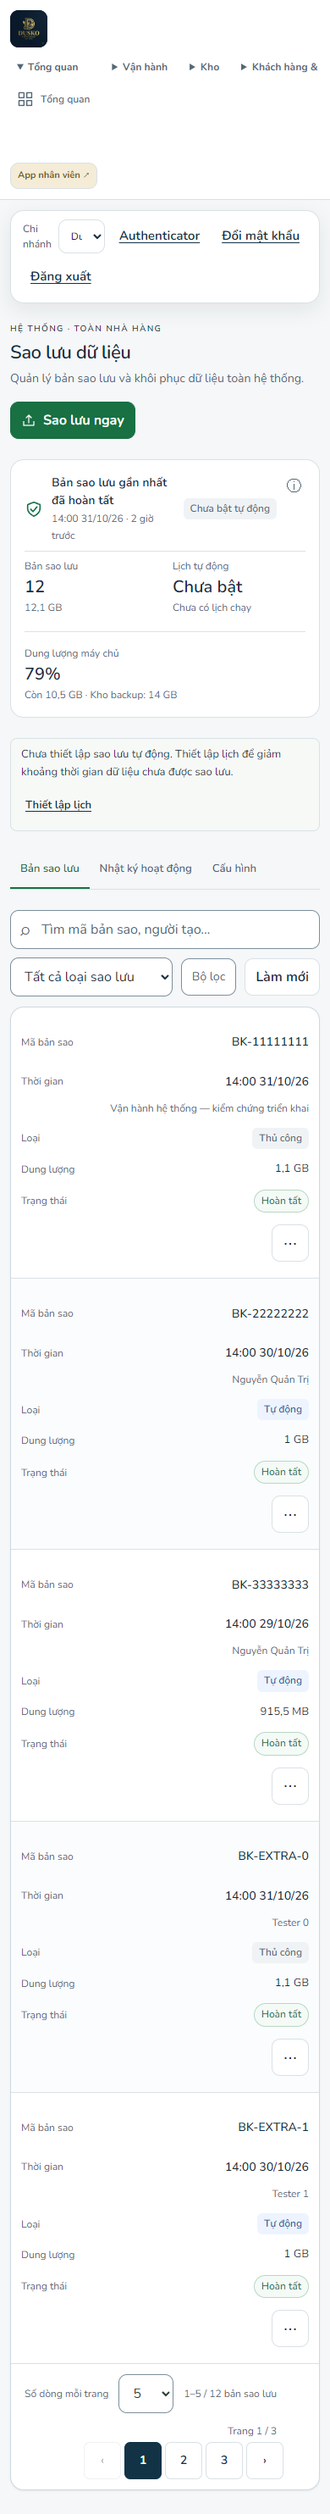
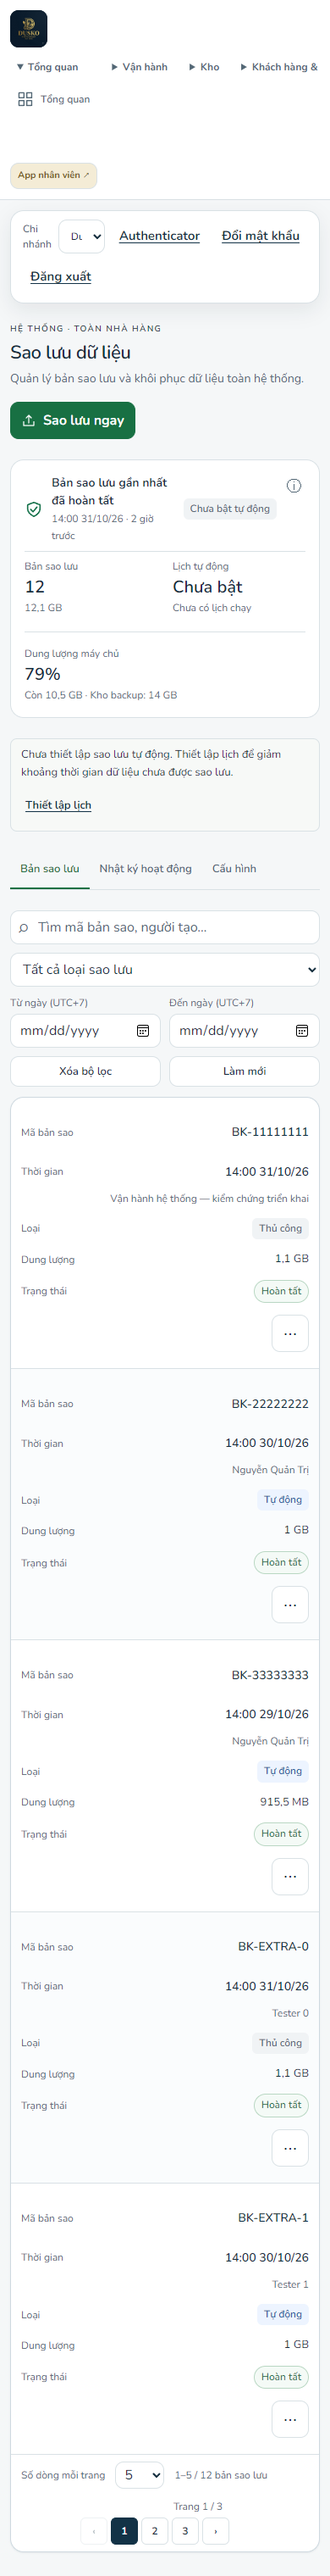
fix: simplify backup filters focus and pagination controls

diff --git a/src/backup-status.css b/src/backup-status.css
@@ -4,7 +4,7 @@
 .backup-console .bk-heading{margin:0;display:flex;justify-content:space-between;align-items:center;gap:16px;flex-direction:row}
 .backup-console .bk-heading h1{font-size:24px;font-weight:600;line-height:1.25;margin:6px 0}.backup-console .bk-heading p{font-size:14px;line-height:1.6;margin:0;color:var(--muted)}
 .backup-console .btn{min-height:var(--tap-min,44px);font-size:16px;line-height:1.4;font-weight:650;padding:8px 12px;border-radius:var(--radius-control,10px)}.backup-console .btn.bk-primary{display:inline-flex;align-items:center;justify-content:center;gap:8px;background:#187043;border-color:#187043;color:#fff;flex:none;padding:8px 12px;box-shadow:none}.backup-console .btn.bk-primary:hover{background:#125b36}.bk-primary svg{width:18px;height:18px}
-.backup-console button:disabled{opacity:.46;cursor:not-allowed;box-shadow:none}.backup-console button:focus-visible,.backup-console summary:focus-visible,.backup-console input:focus-visible,.backup-console select:focus-visible{outline:2px solid #187043;outline-offset:3px}
+.backup-console button:disabled{opacity:.46;cursor:not-allowed;box-shadow:none}.backup-console button:focus-visible,.backup-console summary:focus-visible{outline:2px solid var(--focus-ring);outline-offset:2px}.backup-console input:focus,.backup-console select:focus{outline:2px solid var(--focus-ring);outline-offset:2px;border-color:var(--line);box-shadow:none}
 .bk-card,.bk-overview{background:var(--panel,#fff);border:1px solid var(--bk-line);border-radius:var(--radius-card,16px);padding:16px;min-width:0}.bk-card{padding:var(--space-5,24px)}
 .bk-status-line{display:flex;gap:10px;align-items:center;padding-bottom:8px;border-bottom:1px solid var(--bk-line)}.bk-status-line>div{flex:1;min-width:0}.bk-status-line strong{font-size:14px;font-weight:650;line-height:1.5}.bk-status-line p{margin:2px 0 0;font-size:12px;line-height:1.6;color:var(--muted)}.bk-status-icon{display:grid;place-items:center;color:var(--bk-green);flex:none}.bk-status-icon.is-error{color:var(--bk-red)}
 .bk-summary-grid{display:grid;grid-template-columns:repeat(3,minmax(0,1fr));padding:8px 0 0;gap:24px}.bk-summary-grid>div{min-width:0;padding:0;border:0}.bk-summary-grid>div:last-child{border:0;padding-right:0}.bk-summary-grid>div>span{display:block;font-size:12px;color:var(--muted);margin-bottom:4px}.bk-summary-grid strong{display:block;font-size:20px;line-height:1.2;font-weight:600;margin-bottom:3px}.bk-summary-grid small{display:block;font-size:12px;color:var(--muted);line-height:1.6}.bk-storage .bk-meter{margin:10px 0;max-width:240px;height:6px}.bk-storage--warning strong{color:#ad530b}.bk-storage--danger strong{color:var(--bk-red)}
@@ -16,21 +16,21 @@
 .bk-tabs{display:flex;gap:6px;border-bottom:1px solid var(--bk-line)}.bk-tabs button{font:inherit;font-size:14px;font-weight:600;border:0;border-bottom:2px solid transparent;background:transparent;color:var(--muted);padding:8px 12px;min-height:44px;cursor:pointer}.bk-tabs button[aria-current]{border-bottom-color:#187043;color:#187043}
 .bk-section-head{display:flex;justify-content:space-between;align-items:center;gap:12px;margin-bottom:16px}.bk-section-head h2,.bk-section-head h3{font-size:18px;font-weight:600;margin:0;line-height:1.5}.bk-section-head p{font-size:12px;color:var(--muted);margin:4px 0 0;line-height:1.6}
 .bk-sr-only{position:absolute;width:1px;height:1px;padding:0;margin:-1px;overflow:hidden;clip:rect(0,0,0,0);white-space:nowrap;border:0}
-.bk-archives{min-width:0}.bk-list-toolbar{position:relative;display:flex;align-items:center;gap:10px;flex-wrap:wrap;margin-bottom:12px;min-height:44px}.bk-list-search{position:relative;display:block;width:320px;max-width:100%;min-width:0}.bk-list-search>span[aria-hidden]{position:absolute;left:12px;top:9px;font-size:20px;color:var(--muted);pointer-events:none}.bk-list-search input,.bk-list-type select{width:100%;min-width:0;min-height:44px;height:44px;border:1px solid var(--line-strong);border-radius:var(--radius-control,10px);padding:10px 12px;background:var(--surface);color:var(--ink);font:inherit;font-size:14px;line-height:1.5}.bk-list-search input{padding-left:36px}.bk-list-type{width:180px;max-width:100%}.bk-list-toolbar>.bk-refresh{margin-left:auto}.bk-filter-panel{margin:0}.bk-filter-panel>summary{position:static;font-size:14px;cursor:pointer;min-height:44px;padding:10px 12px;border:1px solid var(--line-strong);border-radius:var(--radius-control,10px);background:#fff;list-style:none;align-content:center;color:var(--muted)}.bk-filter-panel>summary::-webkit-details-marker{display:none}.bk-filter-panel .bk-filters{position:absolute;left:0;top:calc(100% + 8px);z-index:16;width:min(560px,100%);box-shadow:0 6px 20px #19382b1a}.bk-filters{display:grid;grid-template-columns:1fr 1fr auto;gap:12px;align-items:end;padding:16px;background:var(--surface);border:1px solid var(--bk-line);border-radius:var(--radius-control,10px)}
-.bk-filters label{display:grid;gap:6px;font-size:12px;color:var(--muted);min-width:0}.bk-filters input,.bk-filters select,.bk-pagination select{height:44px;min-height:44px;border:1px solid var(--line-strong);border-radius:var(--radius-control,10px);padding:10px 12px;background:#fff;color:#263e30;min-width:0;width:100%;font-size:14px;line-height:1.5}.bk-filters .btn{justify-self:start}
+.bk-archives{min-width:0}.bk-list-toolbar{display:flex;align-items:end;gap:10px;flex-wrap:wrap;margin-bottom:12px}.bk-list-search{position:relative;display:block;flex:1;min-width:220px;max-width:100%}.bk-list-search>span[aria-hidden]{position:absolute;left:10px;bottom:5px;font-size:20px;color:var(--muted);pointer-events:none}.bk-list-type{width:170px;max-width:100%}.bk-date-filters{display:contents}.bk-filters{display:flex;align-items:end;gap:10px}.bk-filters label{display:grid;gap:4px;font-size:12px;color:var(--muted);min-width:0;width:155px}.backup-console .bk-list-search input,.backup-console .bk-list-type select,.backup-console .bk-filters input,.backup-console .bk-pagination select{width:100%;min-width:0;min-height:36px;height:36px;border:1px solid var(--line);border-radius:var(--radius-control,10px);padding:6px 10px;background:var(--surface);color:var(--ink);font:inherit;font-size:14px;line-height:1.4;box-shadow:none}.backup-console .bk-list-search input{padding-left:32px}.backup-console .bk-list-toolbar .btn{min-height:36px;height:36px;padding:6px 10px;font-size:13px;font-weight:600;border:1px solid var(--line);background:var(--surface);color:var(--ink);box-shadow:none}.bk-list-toolbar .btn:hover:not(:disabled){background:var(--surface-sunken)}
+
 .bk-table-frame{background:var(--surface);border:1px solid #ced9e0;border-radius:var(--radius-card,16px);box-shadow:0 1px 2px #142d3d12;min-width:0}.bk-archives .table-scroll{overflow:visible;border:0;border-radius:inherit}.backup-console .bk-archives table{width:100%;min-width:0;border-collapse:separate;border-spacing:0;table-layout:fixed}.backup-console .bk-archives th{padding:12px;text-transform:none;letter-spacing:0;font-size:12px;font-weight:600;background:#f7f9fb;color:var(--muted);white-space:normal;border-bottom:1px solid var(--bk-line)}.backup-console .bk-archives td{padding:8px 12px;font-size:14px;line-height:1.5;vertical-align:middle;border-bottom:1px solid var(--bk-line);white-space:normal}.bk-archives th:first-child{width:18%;border-top-left-radius:var(--radius-card,16px)}.bk-archives th:nth-child(2){width:30%}.bk-archives th:nth-child(3){width:14%}.bk-archives th:nth-child(4){width:12%}.bk-archives th:nth-child(5){width:14%}.bk-archives th:last-child{width:12%;border-top-right-radius:var(--radius-card,16px)}.bk-archives tbody tr:nth-child(even){background:#fafcfd}.bk-archives tbody tr:hover{background:#f2f7f8}.bk-archives tbody tr:last-child td{border-bottom:0}.bk-archives td strong{font-size:14px;font-weight:600}.bk-archive-actor{display:block;font-size:12px;color:var(--muted);margin-top:3px;line-height:1.5;white-space:nowrap;overflow:hidden;text-overflow:ellipsis}.bk-record-link{display:inline-flex;align-items:center;min-height:44px;padding:0;border:0;background:transparent;font:inherit;font-size:14px;font-weight:600;color:var(--primary-ink);cursor:pointer;text-align:left;max-width:100%;overflow-wrap:anywhere}.bk-record-link:hover{text-decoration:underline}.bk-archives td[data-label="Trạng thái"] .bk-badge{border:1px solid #b9d7c3;border-radius:999px;background:#f4faf6;font-weight:500}
 .bk-badge{display:inline-flex;align-items:center;white-space:nowrap;padding:4px 8px;border-radius:6px;background:#f0f3f5;color:#596a76;font-size:12px;font-weight:550;line-height:1.45}.bk-badge--success{background:#eaf6ef;color:var(--bk-green)}.bk-badge--danger{background:#fff0ee;color:var(--bk-red)}.bk-badge--info{background:#edf4ff;color:var(--bk-blue)}
 .bk-row-menu{position:relative;display:inline-block;max-width:100%;text-align:left}.bk-row-menu>summary{display:flex;align-items:center;justify-content:center;border:1px solid var(--bk-line);border-radius:var(--radius-control,10px);width:44px;height:44px;min-height:44px;padding:0;font-size:13px;cursor:pointer;list-style:none;background:#fff}.bk-row-menu>summary::-webkit-details-marker{display:none}.bk-row-menu>summary span{font-size:19px}.bk-menu-items{position:absolute;z-index:15;right:calc(100% + 8px);top:0;width:250px;max-width:calc(100vw - 64px);padding:8px;background:#fff;border:1px solid var(--bk-line);border-radius:10px;box-shadow:0 8px 26px #19382b24}.bk-menu-items button{width:100%;display:flex;align-items:center;gap:8px;min-height:44px;font:inherit;font-size:16px;line-height:1.4;border:0;border-radius:6px;background:#fff;text-align:left;cursor:pointer;padding:10px}.bk-menu-items button:hover:not(:disabled){background:#f4f7f4}.bk-menu-danger{border-top:1px solid var(--bk-line);padding-top:8px;margin-top:8px}.bk-menu-danger small{display:block;color:var(--muted);font-size:11px;padding:4px 10px}.bk-menu-danger button{color:var(--bk-red)}.bk-action svg{width:16px;height:16px}.bk-archive-detail>.bk-action{display:inline-flex;align-items:center;gap:8px;border:1px solid #e7b5b0;border-radius:7px;min-height:44px;background:#fff;color:var(--bk-red);padding:10px 14px;cursor:pointer}
-.bk-pagination{display:flex;align-items:center;justify-content:space-between;gap:12px;flex-wrap:wrap;border-top:1px solid var(--bk-line);padding:12px 16px;margin:0;color:var(--muted);font-size:12px}.bk-pagination-meta,.bk-pagination label,.bk-pagination nav{display:flex;align-items:center;gap:12px}.bk-pagination-meta{flex-wrap:wrap}.bk-pagination select{width:65px}.bk-pagination nav{gap:4px;flex-wrap:wrap}.backup-console .bk-pagination nav button{width:44px;min-width:44px;padding:8px 0;border:1px solid transparent;border-radius:7px;background:transparent;color:var(--muted);font-size:14px}.backup-console .bk-pagination nav .bk-page-number{border-color:var(--bk-line);background:#fff;color:var(--ink)}.backup-console .bk-pagination nav .bk-page-number[aria-current]{background:var(--primary);border-color:var(--primary);color:var(--on-primary)}.bk-page-label{margin-right:8px}.bk-page-gap{padding:0 4px}.bk-footnote{font-size:12px;color:#946a10;line-height:1.7;margin:10px 0}.bk-empty{text-align:center;padding:30px 12px;color:var(--muted)}.bk-empty h3{font-size:17px;margin:0 0 8px}.bk-empty p{font-size:13px;margin:0}
+.bk-pagination{display:flex;align-items:center;justify-content:space-between;gap:12px;flex-wrap:wrap;border-top:1px solid var(--bk-line);padding:8px 12px;margin:0;color:var(--muted);font-size:12px}.bk-pagination-meta,.bk-pagination label,.bk-pagination nav{display:flex;align-items:center;gap:12px}.bk-pagination-meta{flex-wrap:wrap}.backup-console .bk-pagination select{width:58px;min-height:28px;height:28px;padding:3px 6px;font-size:12px}.bk-pagination nav{gap:4px;flex-wrap:wrap}.backup-console .bk-pagination nav button{width:28px;min-width:28px;min-height:28px;height:28px;padding:0;border:1px solid transparent;border-radius:6px;background:transparent;color:var(--muted);font-size:12px;line-height:1}.backup-console .bk-pagination nav .bk-page-number{border-color:var(--bk-line);background:#fff;color:var(--ink)}.backup-console .bk-pagination nav .bk-page-number[aria-current]{background:var(--primary);border-color:var(--primary);color:var(--on-primary)}.bk-page-label{margin-right:8px}.bk-page-gap{padding:0 4px}.bk-footnote{font-size:12px;color:#946a10;line-height:1.7;margin:10px 0}.bk-empty{text-align:center;padding:30px 12px;color:var(--muted)}.bk-empty h3{font-size:17px;margin:0 0 8px}.bk-empty p{font-size:13px;margin:0}
 .bk-archive-detail{margin-top:20px;padding-top:20px;border-top:1px solid var(--bk-line);font-size:13px;line-height:1.7}.bk-archive-detail dl{display:grid;grid-template-columns:150px minmax(0,1fr);gap:10px 16px;margin:0}.bk-archive-detail dt{color:var(--muted)}.bk-archive-detail dd{margin:0;overflow-wrap:anywhere}.bk-archive-detail p{max-width:850px}
 .bk-settings>section{display:flex;justify-content:space-between;align-items:start;gap:24px;border-top:1px solid var(--bk-line);padding:20px 0}.bk-settings>section:last-child{padding-bottom:0}.bk-settings h3{font-size:18px;margin:0 0 8px}.bk-settings p{font-size:14px;color:var(--muted);line-height:1.8;margin:6px 0;max-width:850px}.bk-settings .btn{flex:none}.bk-settings summary{cursor:pointer;font-size:13px;margin-top:12px}
 .bk-activity ol{list-style:none;margin:0;padding:0}.bk-activity li{display:flex;justify-content:space-between;align-items:start;gap:20px;padding:16px 0;border-bottom:1px solid var(--bk-line)}.bk-activity li:last-child{border:0;padding-bottom:0}.bk-activity li>div{min-width:0}.bk-activity strong{font-size:14px}.bk-activity p{font-size:12px;color:var(--muted);margin:5px 0 0;line-height:1.7;overflow-wrap:anywhere}.bk-muted,.bk-capability{font-size:13px;color:var(--muted);line-height:1.7;margin:0}.bk-error{color:var(--bk-red)!important}
 .bk-running{border:1px solid #c7d8e9;border-left:3px solid #235a9b;border-radius:10px;padding:16px;background:#f8fbff}.bk-running-head{display:flex;justify-content:space-between;align-items:center;gap:12px;margin-bottom:12px}.bk-running-head>div{display:flex;align-items:center;gap:10px;flex-wrap:wrap}.bk-running-head strong{font-size:14px}.bk-running-head>b{font-size:24px;color:#235a9b}.bk-running small{display:block;font-size:12px;color:var(--muted);margin-top:10px;line-height:1.6}.bk-running p{font-size:13px;line-height:1.7}.bk-restore-result{padding:20px}.bk-restore-result h2{font-size:20px}
-@container(max-width:899px){.bk-filters{grid-template-columns:repeat(2,minmax(0,1fr))}.bk-filters label:first-child{grid-column:1/-1}.bk-summary-grid{gap:16px}.bk-summary-grid>div{padding-right:0}.bk-status-line{flex-wrap:wrap}.bk-status-line>.bk-badge{margin-left:0}}
-@container(max-width:619px){.bk-card,.bk-overview{padding:16px}.backup-console .bk-heading{align-items:start;flex-wrap:wrap}.backup-console .bk-heading h1{font-size:22px}.bk-summary-grid{grid-template-columns:1fr 1fr;gap:18px}.bk-summary-grid>div:nth-child(2){border:0;padding:0}.bk-summary-grid>div:last-child{grid-column:1/-1;border-top:1px solid var(--bk-line);padding-top:16px}.bk-summary-grid strong{font-size:20px}.bk-storage .bk-meter{max-width:none}.bk-attention li{align-items:baseline;flex-direction:row;gap:6px}.bk-tabs{gap:0}.bk-tabs button{font-size:13px;padding:10px 12px}.bk-filters{padding:12px;gap:10px}.bk-settings>section{align-items:start;flex-direction:column;gap:12px}.bk-archive-detail dl{grid-template-columns:1fr;gap:4px}.bk-archive-detail dd{margin-bottom:10px}.bk-section-head h2{font-size:18px}.bk-pagination>span{flex-basis:100%}
+@container(max-width:899px){.bk-filters{flex-wrap:wrap}.bk-summary-grid{gap:16px}.bk-summary-grid>div{padding-right:0}.bk-status-line{flex-wrap:wrap}.bk-status-line>.bk-badge{margin-left:0}}
+@container(max-width:619px){.bk-card,.bk-overview{padding:16px}.backup-console .bk-heading{align-items:start;flex-wrap:wrap}.backup-console .bk-heading h1{font-size:22px}.bk-summary-grid{grid-template-columns:1fr 1fr;gap:18px}.bk-summary-grid>div:nth-child(2){border:0;padding:0}.bk-summary-grid>div:last-child{grid-column:1/-1;border-top:1px solid var(--bk-line);padding-top:16px}.bk-summary-grid strong{font-size:20px}.bk-storage .bk-meter{max-width:none}.bk-attention li{align-items:baseline;flex-direction:row;gap:6px}.bk-tabs{gap:0}.bk-tabs button{font-size:13px;padding:10px 12px}.bk-filters{padding:0;gap:10px}.bk-settings>section{align-items:start;flex-direction:column;gap:12px}.bk-archive-detail dl{grid-template-columns:1fr;gap:4px}.bk-archive-detail dd{margin-bottom:10px}.bk-section-head h2{font-size:18px}.bk-pagination>span{flex-basis:100%}
 }
 @container(max-width:759px){
- .backup-console .bk-archives table,.bk-archives tbody{display:block}.bk-archives thead{display:none}.bk-archives tr{display:block;padding:12px 0;border-bottom:1px solid var(--bk-line)}.bk-archives tr:last-child{border:0}.backup-console .bk-archives td{display:flex;justify-content:space-between;align-items:center;gap:12px;padding:7px 12px;border:0;font-size:13px}.bk-archives td:before{content:attr(data-label);font-size:12px;color:var(--muted)}.bk-archives td[data-label="Thời gian"]{flex-wrap:wrap}.bk-archive-actor{flex-basis:100%;max-width:100%;text-align:right;margin:0}.bk-archives td strong{font-size:14px}.bk-archives td[data-label="Thao tác"]{justify-content:flex-end}.bk-archives td[data-label="Thao tác"]:before{display:none}.bk-row-menu[open]{width:100%}.bk-row-menu>summary{width:44px;height:44px;min-height:44px}.bk-menu-items button{min-height:44px}.backup-console .btn{min-height:44px}.bk-filters input,.bk-filters select,.bk-pagination select{height:46px;min-height:44px;font-size:16px}.bk-list-search{width:100%}.bk-list-type{flex:1;min-width:130px}.bk-list-search input,.bk-list-type select{font-size:16px;height:46px}.bk-pagination nav{justify-content:flex-end;max-width:100%}.bk-page-label{flex-basis:100%;text-align:right}.bk-pagination nav button[aria-label="Trang đầu"],.bk-pagination nav button[aria-label="Trang cuối"]{display:none}.bk-menu-items{position:static;width:100%;max-width:none;margin-top:8px;box-shadow:none}
+ .backup-console .bk-archives table,.bk-archives tbody{display:block}.bk-archives thead{display:none}.bk-archives tr{display:block;padding:12px 0;border-bottom:1px solid var(--bk-line)}.bk-archives tr:last-child{border:0}.backup-console .bk-archives td{display:flex;justify-content:space-between;align-items:center;gap:12px;padding:7px 12px;border:0;font-size:13px}.bk-archives td:before{content:attr(data-label);font-size:12px;color:var(--muted)}.bk-archives td[data-label="Thời gian"]{flex-wrap:wrap}.bk-archive-actor{flex-basis:100%;max-width:100%;text-align:right;margin:0}.bk-archives td strong{font-size:14px}.bk-archives td[data-label="Thao tác"]{justify-content:flex-end}.bk-archives td[data-label="Thao tác"]:before{display:none}.bk-row-menu[open]{width:100%}.bk-row-menu>summary{width:44px;height:44px;min-height:44px}.bk-menu-items button{min-height:44px}.backup-console .btn{min-height:44px}.bk-list-toolbar{display:grid;grid-template-columns:repeat(2,minmax(0,1fr));align-items:end}.bk-list-search{grid-column:1/-1;min-width:0;width:100%}.bk-list-type{grid-column:1/-1;width:100%}.bk-filters{display:contents}.bk-filters label{width:100%}.backup-console .bk-list-search input,.backup-console .bk-list-type select,.backup-console .bk-filters input{height:40px;min-height:40px;font-size:16px}.backup-console .bk-list-toolbar .btn{height:36px;min-height:36px}.backup-console .bk-pagination nav button{width:32px;min-width:32px;min-height:32px;height:32px}.backup-console .bk-pagination select{height:32px;min-height:32px;font-size:16px}.bk-pagination nav{justify-content:flex-end;max-width:100%}.bk-page-label{flex-basis:100%;text-align:right}.bk-pagination nav button[aria-label="Trang đầu"],.bk-pagination nav button[aria-label="Trang cuối"]{display:none}.bk-menu-items{position:static;width:100%;max-width:none;margin-top:8px;box-shadow:none}
 }
 @media(max-width:760px){
  .content:has(.backup-console){padding:18px 12px 28px}.backup-console .bk-heading h1{font-size:22px}

diff --git a/src/backup-console.js b/src/backup-console.js
@@ -55,7 +55,7 @@ export function backupStatusHtml(data,view={}) {
  const warningHtml=item=>`<span>${e(item.text)}</span>${item.action?`<button class="btn text" data-backup="${item.action}" ${item.action==='schedule'&&locked?'disabled':''}>${e(item.label)}</button>`:''}`;
  const attention=warnings.length?`<section class="bk-attention" aria-label="Lưu ý vận hành"><ul>${warnings.length<=2?warnings.map(item=>`<li>${warningHtml(item)}</li>`).join(''):`<li>${warningHtml(warnings[0])}</li><li><details data-backup-detail="more-warnings"><summary>${warnings.length-1} lưu ý vận hành khác</summary><ul>${warnings.slice(1).map(item=>`<li>${warningHtml(item)}</li>`).join('')}</ul></details></li>`}</ul></section>`:'';
  const tabs=`<nav class="bk-tabs" aria-label="Mục quản trị sao lưu">${[['archives','Bản sao lưu'],['activity','Nhật ký hoạt động'],['settings','Cấu hình']].map(([id,label])=>`<button data-backup="tab-${id}" ${tab===id?'aria-current="page"':''}>${label}</button>`).join('')}</nav>`;
- const filters=`<details class="bk-filter-panel" data-backup-detail="filters"><summary>Bộ lọc${view.from||view.to?' · Ngày':''}</summary><div class="bk-filters" role="search" aria-label="Lọc theo thời gian"><label><span>Từ ngày (UTC+7)</span><input type="date" data-backup-filter="from" value="${e(view.from||'')}"></label><label><span>Đến ngày (UTC+7)</span><input type="date" data-backup-filter="to" value="${e(view.to||'')}"></label><button class="btn secondary" data-backup="clear-filters">Xóa bộ lọc</button></div></details>`;
+ const filters=`<div class="bk-date-filters"><div class="bk-filters" role="search" aria-label="Lọc theo thời gian"><label><span>Từ ngày (UTC+7)</span><input type="date" data-backup-filter="from" value="${e(view.from||'')}"></label><label><span>Đến ngày (UTC+7)</span><input type="date" data-backup-filter="to" value="${e(view.to||'')}"></label><button class="btn secondary" data-backup="clear-filters">Xóa bộ lọc</button></div></div>`;
  const toolbar=`<div class="bk-list-toolbar"><label class="bk-list-search"><span class="bk-sr-only">Tìm bản sao lưu</span><span aria-hidden="true">⌕</span><input type="search" data-backup-filter="query" value="${e(view.query||'')}" placeholder="Tìm mã bản sao, người tạo…"></label><label class="bk-list-type"><span class="bk-sr-only">Loại sao lưu</span><select data-backup-filter="type">${[['','Tất cả loại sao lưu'],['MANUAL','Thủ công'],['AUTO','Tự động'],['SAFETY','Trước khôi phục']].map(([value,label])=>`<option value="${value}" ${view.type===value?'selected':''}>${label}</option>`).join('')}</select></label>${filters}<button class="btn secondary bk-refresh" data-backup="refresh">Làm mới</button></div>`;
  const table=archiveView.items.length?`<div class="table-scroll"><table><thead><tr><th>Mã bản sao</th><th>Thời gian / Người tạo</th><th>Loại</th><th>Dung lượng</th><th>Trạng thái</th><th>Thao tác</th></tr></thead><tbody>${archiveView.items.map(item=>`<tr><td data-label="Mã bản sao"><button class="bk-record-link" data-backup="details" data-archive-id="${e(item.id)}" title="${e(item.id)}">BK-${e((item.id?.match(/([a-f0-9]{8})-[a-f0-9-]{27}$/i)?.[1]||item.id?.slice(-8)||'—').toUpperCase())}</button></td><td data-label="Thời gian"><strong>${e(dateTime(item.createdAt))}</strong><small class="bk-archive-actor" title="${e(item.requestedByName||'Chưa ghi nhận')}">${e(item.requestedByName||'Chưa ghi nhận')}</small></td><td data-label="Loại">${badge(triggerLabel(item.trigger),item.trigger==='AUTO'?'info':'neutral')}</td><td data-label="Dung lượng">${e(backupSize(item.bytes))}</td><td data-label="Trạng thái">${badge('Hoàn tất','success')}</td><td data-label="Thao tác"><details class="bk-row-menu" data-backup-detail="archive-${e(item.id)}"><summary aria-label="Thao tác bản sao ${e(dateTime(item.createdAt))}" title="Thao tác"><span aria-hidden="true">⋯</span></summary><div class="bk-menu-items"><button data-backup="details" data-archive-id="${e(item.id)}">Thông tin bản sao</button>${action('Tải về','download',item.id,locked)}<div class="bk-menu-danger"><small>Thao tác cần xác nhận</small>${action('Khôi phục','restore',item.id,locked||!cap.canRestore||!item.canRestore,item.restoreReason||cap.restoreReason||'Ghi đè dữ liệu toàn hệ thống')}${action('Xóa','delete',item.id,locked||(data.totalBackups??backups.length)<=1,'Giữ lại ít nhất một bản hoàn chỉnh')}</div></div></details></td></tr>`).join('')}</tbody></table></div>`:`<div class="bk-empty"><h3>${backups.length?'Không có bản sao phù hợp':'Chưa có bản sao lưu'}</h3><p>${backups.length?'Thử đổi ngày, loại hoặc từ khóa tìm kiếm.':'Tạo bản đầu tiên bằng nút Sao lưu ngay.'}</p></div>`;
  const pageNumbers=[...new Set([1,archiveView.page-1,archiveView.page,archiveView.page+1,archiveView.pages].filter(n=>n>=1&&n<=archiveView.pages))].sort((a,b)=>a-b);

diff --git a/docs/BACKUP_ADMIN.md b/docs/BACKUP_ADMIN.md
@@ -54,8 +54,12 @@ Thông số mới ưu tiên kết quả đo trình duyệt của hai màn hình 
 
 Script tests/browser/backup-menu-scale.mjs mở entry staff thật, vào menu bằng role WAITER và CASHIER với API giả lập, đo computed styles ở 1440/390px và xác nhận hai role dùng cùng kích thước. Kết quả tại docs/ui/backup-menu-sizing.json. tests/browser/backup-admin.mjs so sánh font/control/radius của backup với các giá trị đã đo, cùng các luồng MFA, lọc, menu, lịch và restore monitor. Chiều cao tổng quan/hàng bảng được phép tăng tự nhiên theo kích thước chung, không ép font nhỏ để giữ mốc cũ.
 
-## Bảng theo mẫu quản lý danh sách
+## Archive table and compact controls
 
-Tìm kiếm mã/người tạo và lọc loại sao lưu luôn hiển thị ngay phía trên khung bảng; ngày bắt đầu/kết thúc trong Bộ lọc mở rộng. Bảng và chân phân trang dùng chung khung viền mảnh, header nền nhạt, hàng xen kẽ/hover nhẹ và trạng thái dạng pill viền. Cột mã BK rút gọn UUID có thể bấm mở thông tin; tooltip và phần chi tiết giữ ID đầy đủ. Mã rút gọn không dùng làm định danh API.
+Search, backup type and both UTC+7 date filters are always visible above the framed archive table. Clear filters and refresh share the desktop baseline; fields stack on narrow screens. The table keeps its short clickable BK code, full identifier in details, status pill, alternating rows and contextual action menu. Short codes never identify API requests.
 
-Phân trang có số trang, trang đầu/cuối và trước/sau, số dòng mỗi trang cùng tổng kết quả trong footer. Các nút số trang hoạt động trên tập metadata đã tải, vẫn có cảnh báo nếu inventory truncated. Không thêm bộ lọc trạng thái giả vì inventory chỉ liệt kê bản hoàn tất; tác vụ thất bại xem ở Nhật ký. Giữ chữ/control theo kích thước đã đo từ menu Phục vụ/Thu ngân và giữ nguyên xác nhận MFA/CONFIRM.
+Customer order controls in `customer-web/src/customer-menu.css` and `customer-web/src/style.css` provide the reference for subtle `--line` borders, surface, control radius and restrained secondary buttons. Backup fields use 36px desktop / 40px mobile height; secondary toolbar buttons use 36px / 13px text. Focus uses the shared navy `--focus-ring`, 2px outline with 2px offset, without changing borders, dimensions or adding shadows. The main backup action and restore/delete safety flow retain their existing size and confirmation requirements.
+
+Pagination buttons use 28px desktop / 32px mobile targets and 12px text, with a compact rows-per-page selector and unchanged first/previous/numbered/next/last behavior. Filtering still precedes pagination and preserves values across polling; inventory truncation remains visible.
+
+Validation: 104 FE tests, all three production builds, and mocked Edge browser coverage at 390-3840px plus zoom. Browser checks include all five field focus states, date/type/search combinations, clear filters, polling retention, numbered and boundary navigation, unchanged branch control identity, MFA/CONFIRM and restore monitoring. Screenshots use fixtures only.
